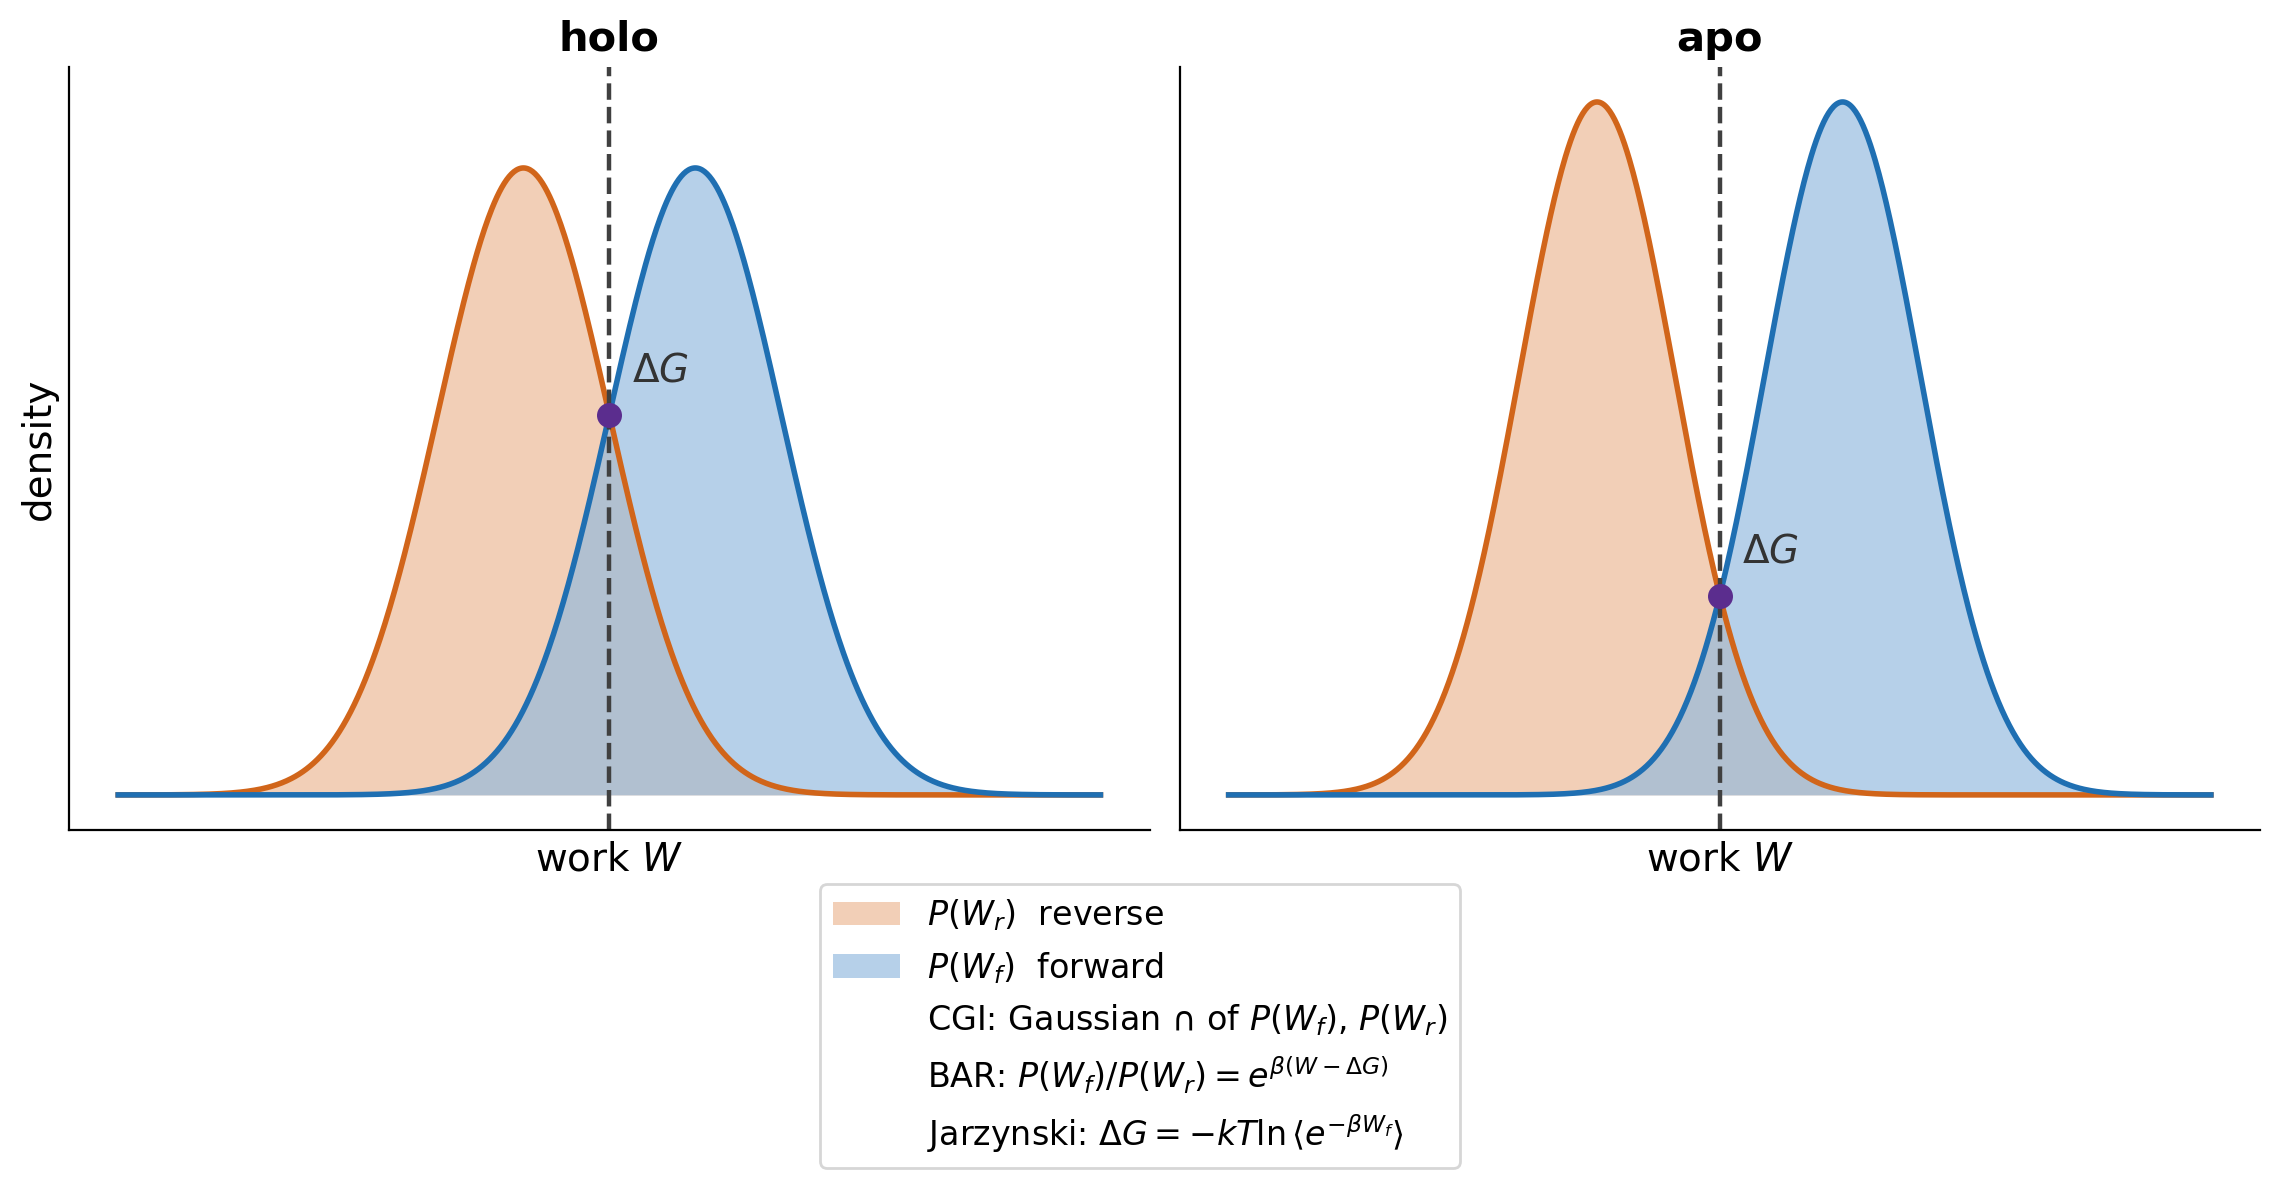
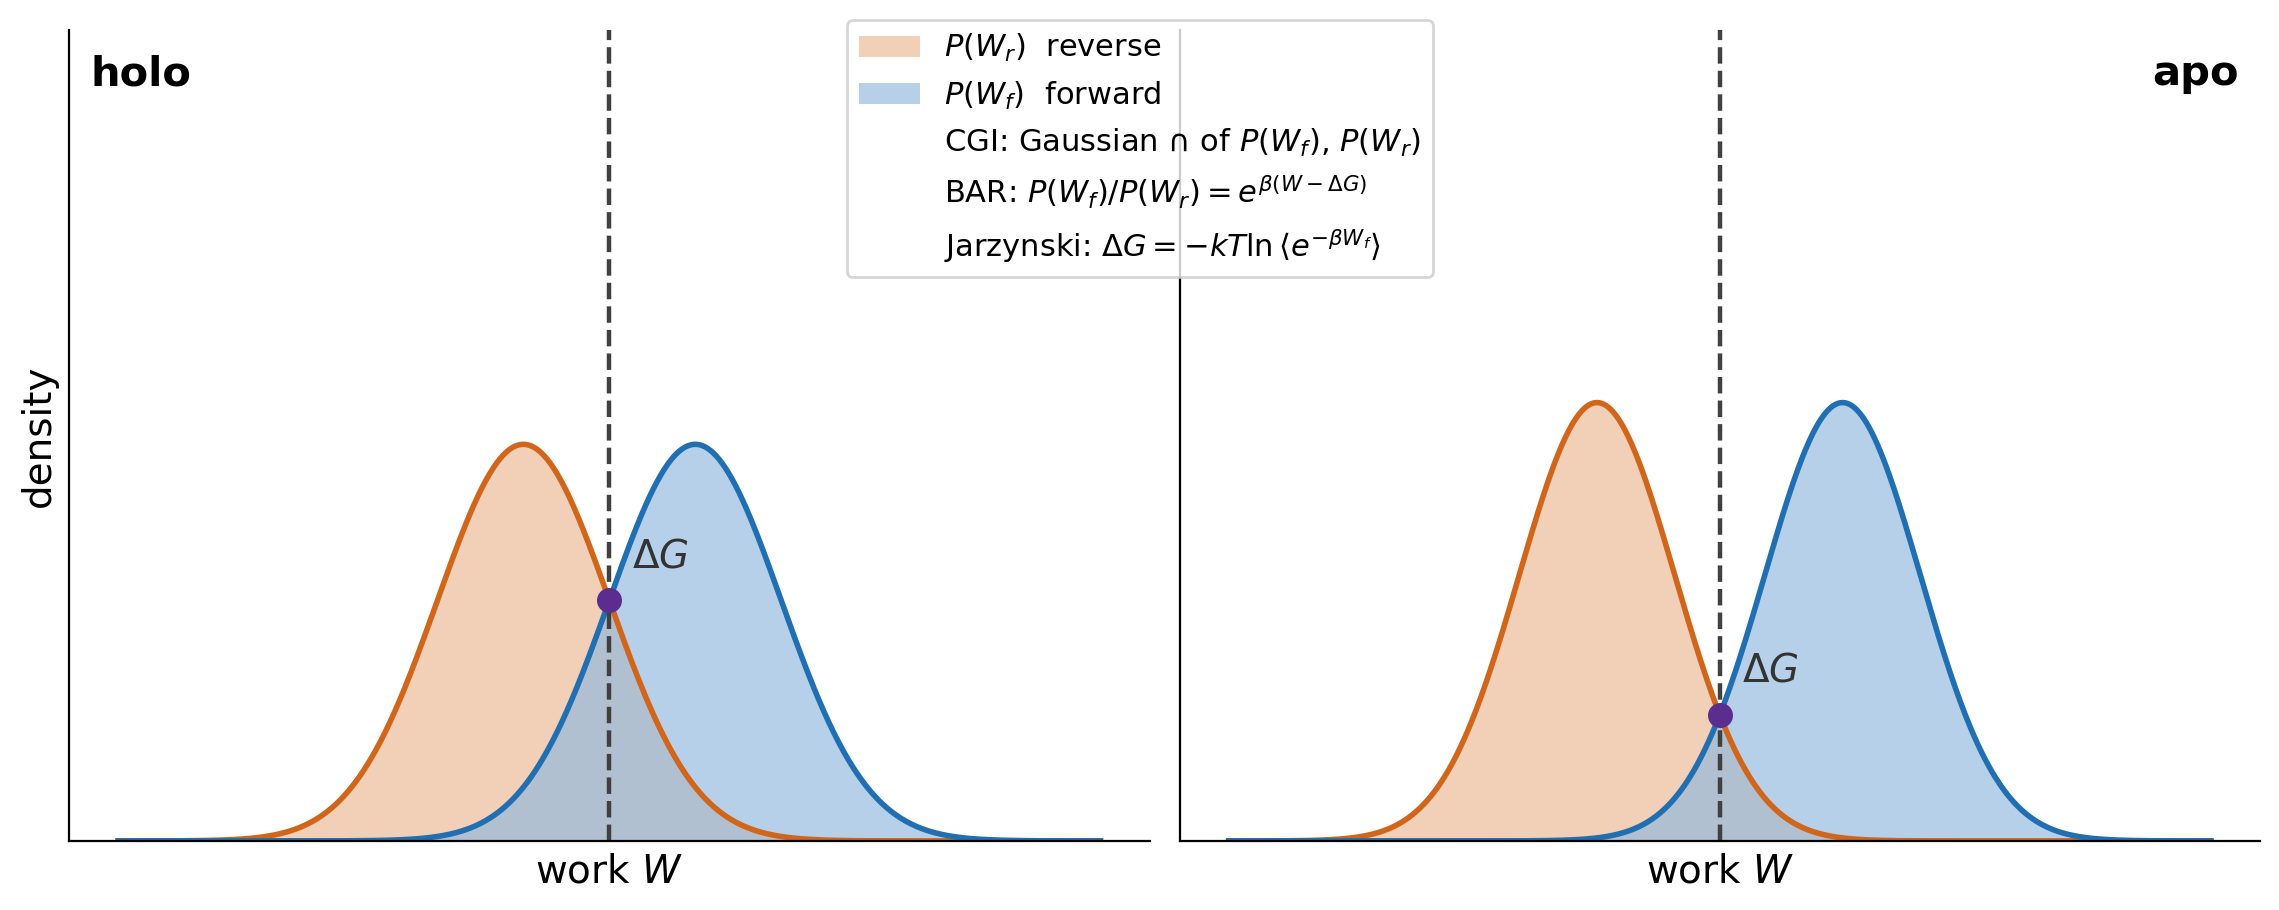
fep_pmx: move the work-distribution legend inside the figure, top centre
The legend sat below the axes and forced a band of whitespace. It now sits top
centre inside the figure, with 1.85x y-headroom so it clears the curves. Panel
titles moved to the OUTER top corner of each axes (holo left, apo right) -- placing
both at top-left put 'apo' directly under the centred legend box.

diff --git a/scripts/fep_pmx/plot_protocol_schematic.py b/scripts/fep_pmx/plot_protocol_schematic.py
@@ -192,8 +192,12 @@ def plot_work_distributions(out_path: Path) -> None:
     """
     fig, axes = plt.subplots(1, 2, figsize=(11.5, 4.6), sharey=True)
     specs = [
-        {"ax": axes[0], "title": "holo", "mu_f": 1.05, "mu_r": -1.05, "sig": 1.05},
-        {"ax": axes[1], "title": "apo", "mu_f": 1.5, "mu_r": -1.5, "sig": 0.95},
+        # Titles sit at the OUTER top corner of each panel so the centred legend
+        # cannot cover them.
+        {"ax": axes[0], "title": "holo", "tx": 0.02, "ha": "left",
+         "mu_f": 1.05, "mu_r": -1.05, "sig": 1.05},
+        {"ax": axes[1], "title": "apo", "tx": 0.98, "ha": "right",
+         "mu_f": 1.5, "mu_r": -1.5, "sig": 0.95},
     ]
     x = np.linspace(-6, 6, 800)
     for sp in specs:
@@ -212,7 +216,11 @@ def plot_work_distributions(out_path: Path) -> None:
         ax.annotate(r"$\Delta G$", (0.0, _gauss(0.0, sp["mu_f"], sp["sig"])),
                     textcoords="offset points", xytext=(8, 12), fontsize=14,
                     color="0.2", fontweight="bold")
-        ax.set_title(sp["title"], fontweight="bold", fontsize=15)
+        # Headroom so the centred legend clears the curves instead of needing a
+        # whitespace band under the figure.
+        ax.set_ylim(0, _gauss(sp["mu_f"], sp["mu_f"], sp["sig"]) * 1.85)
+        ax.text(sp["tx"], 0.97, sp["title"], transform=ax.transAxes,
+                ha=sp["ha"], va="top", fontweight="bold", fontsize=15)
         ax.set_xlabel("work $W$", fontsize=14)
         ax.set_xticks([]); ax.set_yticks([])
         for side in ("top", "right"):
@@ -223,8 +231,8 @@ def plot_work_distributions(out_path: Path) -> None:
     blank = plt.Line2D([], [], linestyle="none")
     handles += [blank, blank, blank]
     labels += [EST_CGI, EST_BAR, EST_JARZ]
-    fig.legend(handles, labels, loc="lower center", ncol=1, frameon=True,
-               fontsize=12, bbox_to_anchor=(0.5, -0.30))
+    fig.legend(handles, labels, loc="upper center", ncol=1, frameon=True,
+               fontsize=11, bbox_to_anchor=(0.5, 0.995))
     fig.tight_layout()
     fig.savefig(out_path, dpi=200, bbox_inches="tight")
     plt.close(fig)
